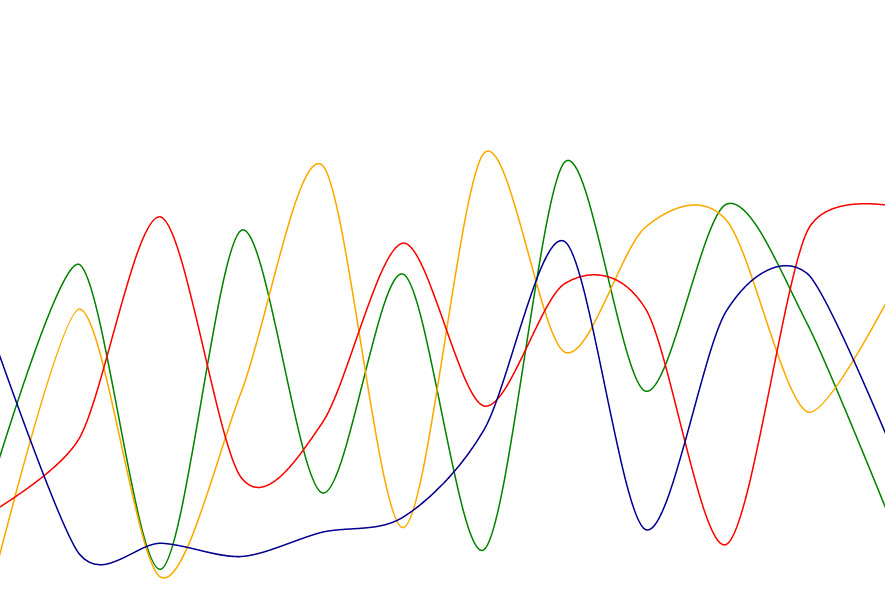
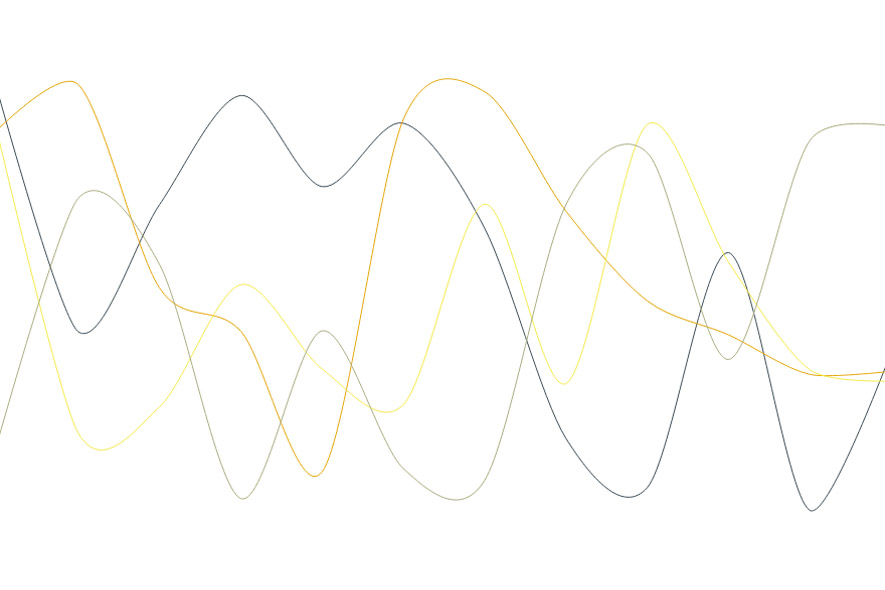
Add new images for document landing page

diff --git a/examples/scatterplot-chart/App.js b/examples/scatterplot-chart/App.js
@@ -176,17 +176,42 @@ const bigDataZ = [
 const config = [
   {
     type: 'One',
-    color: '#ff0000',
-    stroke: 'blue'
+    color: '#1e313c',
+    stroke: 'black'
   },
   {
     type: 'Two',
-    color: '#00ff00',
-    stroke: 'blue'
+    color: '#3f4c55',
+    stroke: 'black'
   },
   {
     type: 'Three',
-    color: '#ffffff',
+    color: '#667178',
+    stroke: 'black'
+  },
+  {
+    type: 'Four',
+    color: '#f4e956',
+    stroke: 'black'
+  },
+  {
+    type: 'Five',
+    color: '#e3a51a',
+    stroke: 'black'
+  },
+  {
+    type: 'Six',
+    color: '#aaac84',
+    stroke: 'black'
+  },
+  {
+    type: 'Seven',
+    color: '#dce7c5',
+    stroke: 'black'
+  },
+  {
+    type: 'Eight',
+    color: '#e4e8ec',
     stroke: 'black'
   }
 ];

diff --git a/examples/legend/App.js b/examples/legend/App.js
@@ -13,9 +13,9 @@ const pieData = [
 ];
 
 const pieDataCustom = [
-  {key: 'Cats', value: 100, color: 'teal'},
-  {key: 'Dogs', value: 200, color: 'thistle'},
-  {key: 'Other', value: 50, color: 'tomato'}
+  {key: 'Cats', value: 100, color: '#1e313c'},
+  {key: 'Dogs', value: 200, color: '#3f4c55'},
+  {key: 'Other', value: 50, color: '#667178'}
 ];
 
 const config = [

diff --git a/index.html b/index.html
@@ -9,10 +9,7 @@
     <link rel="stylesheet" href="styles/main.css">
   </head>
   <body>
-    <div class="container">
-      <h1>React Easy Chart...</h1>
-
-    </div>
+    <div class="container"></div>
     <script>
       window.location = './docs/index.html';
     </script>

diff --git a/examples/pie-chart/App.js b/examples/pie-chart/App.js
@@ -464,6 +464,7 @@ mouseOutHandler() {
       <PieChart
         labels
         data={this.data}
+        padding={10}
         styles={{
           '.chart_lines': {
             strokeWidth: 0
